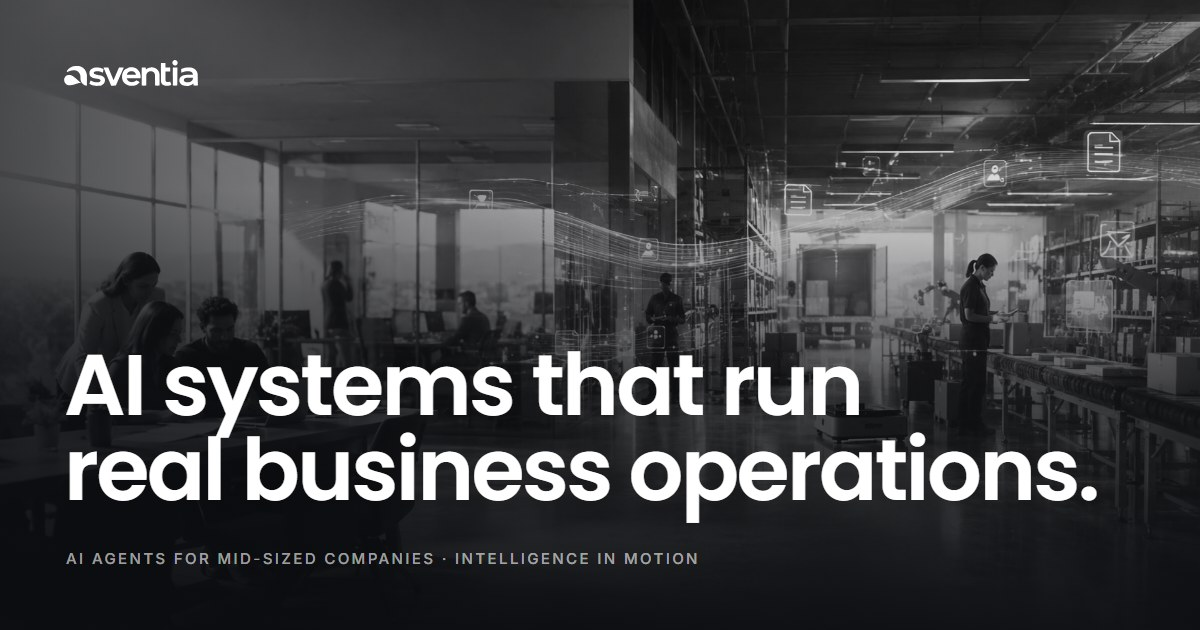
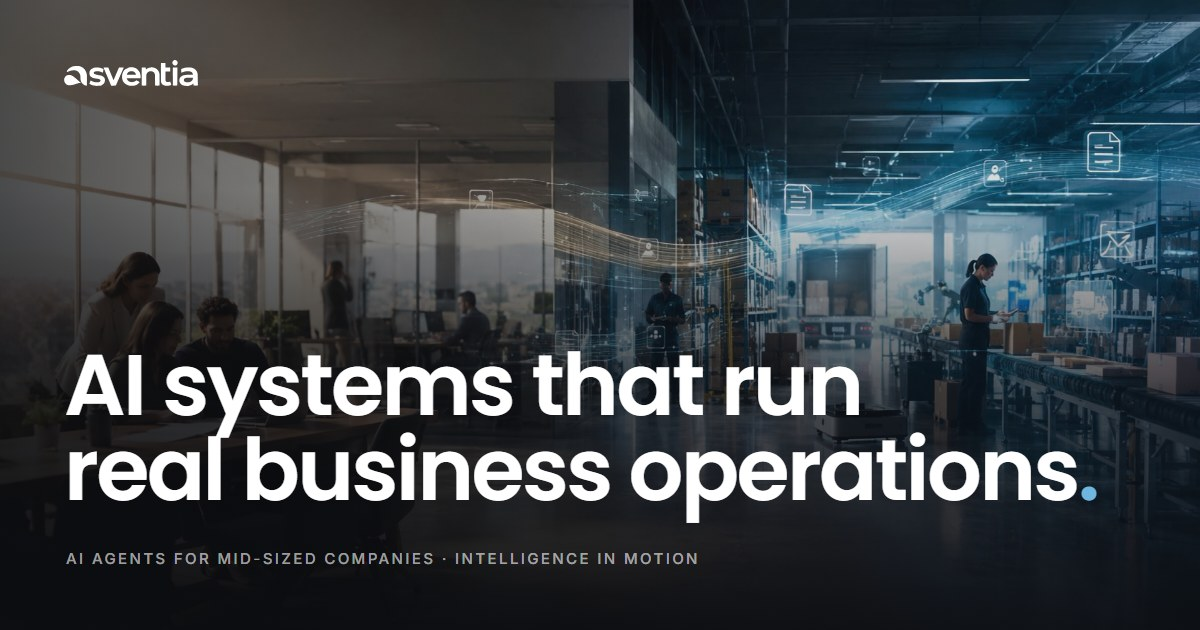
feat: more color

Changed region(s): [[0.6167, 0.0302, 1.0, 0.5127], [0.8942, 0.754, 0.925, 0.8143]]

diff --git a/src/app/globals.css b/src/app/globals.css
@@ -2,7 +2,8 @@
 @import "lenis/dist/lenis.css";
 
 /* ------------------------------------------------------------------
-   Asventia tokens. Paper and ink from the brand deck; black and white, no accent colour.
+   Asventia tokens. Paper and ink from the brand deck, plus one cool accent
+   taken from the hero footage's holographic lines. Used sparingly.
    ------------------------------------------------------------------ */
 @theme {
   --color-paper: #f4f3ef;
@@ -16,6 +17,9 @@
   --color-body: #454b55;
   --color-muted: #5f6570;
   --color-sand: #c3bdb1;
+  /* accent on ink (8:1) / accent-deep on paper (5:1); never orange */
+  --color-accent: #6fb6e0;
+  --color-accent-deep: #2a6a96;
 
   --text-hero: min(clamp(2.3rem, 0.75rem + 4.75vw, 6.6rem), 9.2svh);
   --text-hero--line-height: 1;
@@ -60,12 +64,12 @@
   }
 
   ::selection {
-    background: var(--color-ink);
+    background: var(--color-accent-deep);
     color: #fff;
   }
 
   :focus-visible {
-    outline: 2px solid currentColor;
+    outline: 2px solid var(--color-accent);
     outline-offset: 3px;
   }
 
@@ -146,11 +150,11 @@
   }
   .range::-webkit-slider-runnable-track {
     height: 2px;
-    background: linear-gradient(to right, #fff var(--fill), rgb(255 255 255 / 0.16) var(--fill));
+    background: linear-gradient(to right, var(--color-accent) var(--fill), rgb(255 255 255 / 0.16) var(--fill));
   }
   .range::-moz-range-track {
     height: 2px;
-    background: linear-gradient(to right, #fff var(--fill), rgb(255 255 255 / 0.16) var(--fill));
+    background: linear-gradient(to right, var(--color-accent) var(--fill), rgb(255 255 255 / 0.16) var(--fill));
   }
   .range::-webkit-slider-thumb {
     appearance: none;
@@ -169,7 +173,7 @@
     background: #fff;
   }
   .range:active::-webkit-slider-thumb {
-    background: var(--color-sand);
+    background: var(--color-accent);
   }
   .range:focus-visible {
     outline-offset: 6px;

diff --git a/src/components/agents/sim-tailored.tsx b/src/components/agents/sim-tailored.tsx
@@ -46,7 +46,7 @@ export function TailoredSim({ playing, instant, onDone }: SimProps) {
             <Appear key={p.name} show={at(S.rows + i)} y={6}>
               <div
                 className={`grid grid-cols-[minmax(0,1fr)_3.5rem_4.5rem] items-center gap-3 border-t border-white/8 px-2 py-2.5 transition-colors duration-500 sm:grid-cols-[minmax(0,1.3fr)_3.5rem_minmax(0,1fr)_4.5rem] ${
-                  picked ? "-mx-2 bg-white/10 px-4" : "-mx-2"
+                  picked ? "-mx-2 bg-accent/12 px-4" : "-mx-2"
                 }`}
               >
                 <span className={`truncate text-[0.84rem] ${picked ? "text-white" : "text-white/80"}`}>{p.name}</span>
@@ -54,7 +54,7 @@ export function TailoredSim({ playing, instant, onDone }: SimProps) {
                 <span className="hidden h-1.5 overflow-hidden bg-white/8 sm:block">
                   <span
                     className={`block h-full origin-left transition-transform duration-1000 ease-out-expo ${
-                      picked ? "bg-white" : "bg-white/35"
+                      picked ? "bg-accent" : "bg-white/55"
                     }`}
                     style={{ transform: `scaleX(${at(S.rows + i) ? p.hours / MAX : 0})`}}
                   />
@@ -78,7 +78,7 @@ export function TailoredSim({ playing, instant, onDone }: SimProps) {
         <Appear show={at(S.plan)} className="bg-white/6 p-4">
           <PanelLabel>Recommended first agent</PanelLabel>
           <p className="mt-1.5 flex items-center gap-2 text-[1rem] font-medium">
-            Order intake <ArrowRight className="size-4 text-white" /> pilot in 4 weeks
+            Order intake <ArrowRight className="size-4 text-accent" /> pilot in 4 weeks
           </p>
           <p className="mt-1 text-[0.8rem] leading-snug text-white/55">
             Target: ≥95% of orders read correctly, about 1,800 hours a year back to the sales team.

diff --git a/src/components/sections/rollout.tsx b/src/components/sections/rollout.tsx
@@ -81,13 +81,13 @@ export function Rollout() {
           <m.div
             aria-hidden
             style={{ scaleX: fill }}
-            className="absolute top-[0.44rem] left-0 hidden h-px w-full origin-left bg-ink md:block"
+            className="absolute top-[0.44rem] left-0 hidden h-px w-full origin-left bg-accent-deep md:block"
           />
           <div aria-hidden className="absolute top-0 bottom-0 left-[0.44rem] w-px bg-line-strong md:hidden" />
           <m.div
             aria-hidden
             style={{ scaleY: fill }}
-            className="absolute top-0 bottom-0 left-[0.44rem] w-px origin-top bg-ink md:hidden"
+            className="absolute top-0 bottom-0 left-[0.44rem] w-px origin-top bg-accent-deep md:hidden"
           />
 
           <ol className="relative grid gap-10 md:grid-cols-4 md:gap-6">
@@ -98,13 +98,13 @@ export function Rollout() {
                   <span
                     aria-hidden
                     className={`absolute top-0 left-0 grid size-[0.9rem] place-items-center transition-colors duration-500 ${
-                      on ? "bg-ink" : "bg-stone ring-1 ring-line-strong ring-inset"
+                      on ? "bg-accent-deep" : "bg-stone ring-1 ring-line-strong ring-inset"
                     }`}
                   >
                     <span className={`size-1.5 ${on ? "bg-white" : "bg-transparent"}`} />
                   </span>
                   <div className="md:pt-10">
-                    <p className={`label transition-colors duration-500 ${on ? "text-ink" : "text-muted"}`}>
+                    <p className={`label transition-colors duration-500 ${on ? "text-accent-deep" : "text-muted"}`}>
                       Phase {i + 1} · {p.when}
                     </p>
                     <h3 className="mt-3 font-display text-[1.25rem] leading-snug font-semibold tracking-[-0.012em] text-ink">

diff --git a/src/components/hero/hero.tsx b/src/components/hero/hero.tsx
@@ -69,7 +69,7 @@ export function Hero({ onSelectAgent }: { onSelectAgent: (id: AgentId) => void }
         {/* ---------------- footage ---------------- */}
         <m.div style={{ y: mediaY }} className="absolute inset-0">
           <m.div style={{ x: sx, y: sy }} className="absolute inset-0">
-            <div className="intro-settle absolute inset-0 origin-[60%_45%] grayscale">
+            <div className="intro-settle absolute inset-0 origin-[60%_45%]">
               <SceneMedia playing={running} />
             </div>
           </m.div>
@@ -105,7 +105,7 @@ export function Hero({ onSelectAgent }: { onSelectAgent: (id: AgentId) => void }
               </span>
               <span className="line-mask">
                 <span className="intro-rise inline-block" style={{ "--d": "0.18s" } as CSSProperties}>
-                  real business operations.
+                  real business operations<span className="text-accent">.</span>
                 </span>
               </span>
             </h1>
@@ -171,7 +171,7 @@ function IndexItem({
       {active && (
         <span
           aria-hidden
-          className="absolute inset-x-0 -top-px h-px origin-left bg-white"
+          className="absolute inset-x-0 -top-px h-px origin-left bg-accent"
           style={{
             animation: `marquee-progress ${CYCLE_MS}ms linear both`,
             animationPlayState: running ? "running" : "paused",
@@ -180,7 +180,7 @@ function IndexItem({
       )}
       <a href="#agents" onClick={onSelect} className="group block py-5 pr-6 xl:pr-10 [@media(max-height:820px)]:py-4">
         <span
-          className={`label transition-colors duration-500 ${active ? "text-white" : "text-white/50"}`}
+          className={`label transition-colors duration-500 ${active ? "text-accent" : "text-white/50"}`}
         >
           {index}
         </span>

diff --git a/src/components/agents/sim-invoice.tsx b/src/components/agents/sim-invoice.tsx
@@ -103,7 +103,7 @@ export function InvoiceSim({ playing, instant, onDone }: SimProps) {
           {/* scan beam */}
           {step === S.scan && (
             <div className="pointer-events-none absolute inset-0 [animation:scan_1.5s_var(--ease-in-out-quart)_both]">
-              <div className="h-px w-full bg-white shadow-[0_0_18px_4px_rgba(255,255,255,0.35)]" />
+              <div className="h-px w-full bg-accent shadow-[0_0_18px_4px_rgba(111,182,224,0.45)]" />
             </div>
           )}
         </div>
@@ -138,7 +138,7 @@ export function InvoiceSim({ playing, instant, onDone }: SimProps) {
           <div className="mt-2 space-y-1 tabular text-[0.72rem]">
             {JOURNAL.map((j) => (
               <div key={j.acct} className="grid grid-cols-[2.2rem_minmax(0,1fr)_4.2rem_4.2rem] gap-2">
-                <span className="font-medium text-white">{j.acct}</span>
+                <span className="text-accent">{j.acct}</span>
                 <span className="truncate text-white/70">{j.name}</span>
                 <span className="tabular text-right text-white/85">{j.dr}</span>
                 <span className="tabular text-right text-white/85">{j.cr}</span>
@@ -174,9 +174,9 @@ function Zone({
     <div
       className={`relative -m-1 p-1 transition-[box-shadow,background-color] duration-500 ${
         active
-          ? "bg-ink/5 shadow-[inset_0_0_0_1.5px_var(--color-ink)]"
+          ? "bg-accent-deep/8 shadow-[inset_0_0_0_1.5px_var(--color-accent-deep)]"
           : seen
-            ? "shadow-[inset_0_0_0_1px_rgba(21,22,26,0.25)]"
+            ? "shadow-[inset_0_0_0_1px_rgba(42,106,150,0.3)]"
             : ""
       } ${className}`}
     >

diff --git a/src/components/agents/agents.tsx b/src/components/agents/agents.tsx
@@ -72,7 +72,7 @@ export function Agents({ request }: { request: AgentRequest }) {
     >
       <div className="flex items-center justify-between border-b border-white/10 px-5 py-3">
         <div className="flex items-center gap-2.5">
-          <span className="grid size-6 place-items-center bg-white">
+          <span className="grid size-6 place-items-center bg-accent">
             <Mark className="h-2.5 w-auto text-ink" />
           </span>
           <span className="label text-white/70">{agent.name}</span>
@@ -126,7 +126,7 @@ export function Agents({ request }: { request: AgentRequest }) {
                     <span
                       key={run}
                       aria-hidden
-                      className="absolute inset-x-0 -top-px h-px origin-left bg-ink"
+                      className="absolute inset-x-0 -top-px h-px origin-left bg-accent-deep"
                       style={{
                         animation: `marquee-progress ${duration}ms linear both`,
                         animationPlayState: playing ? "running" : "paused",
@@ -142,7 +142,7 @@ export function Agents({ request }: { request: AgentRequest }) {
                   >
                     <span
                       className={`pt-1.5 tabular text-[0.78rem] transition-colors duration-300 ${
-                        selected ? "text-ink" : "text-muted"
+                        selected ? "text-accent-deep" : "text-muted"
                       }`}
                     >
                       {a.index}

diff --git a/src/components/agents/sim-reception.tsx b/src/components/agents/sim-reception.tsx
@@ -82,7 +82,7 @@ export function ReceptionSim({ playing, instant, onDone }: SimProps) {
               <span key={i} className="flex h-full flex-1" style={{ transform: `scaleY(${b.hi})`}}>
                 <span
                   className={`h-full w-full origin-center transition-colors duration-300 ${
-                    speaker === "agent" ? "bg-white" : speaker === "caller" ? "bg-white/45" : "bg-white/15"
+                    speaker === "agent" ? "bg-accent" : speaker === "caller" ? "bg-white/80" : "bg-white/20"
                   }`}
                   style={
                     {
@@ -159,7 +159,7 @@ function Line({ show, who, children }: { show: boolean; who: "agent" | "caller";
     <Appear show={show} y={5} className="flex gap-2.5">
       <span className="mt-0.5 grid size-4 shrink-0 place-items-center">
         {who === "agent" ? (
-          <Mark className="h-2.5 w-auto text-white" />
+          <Mark className="h-2.5 w-auto text-accent" />
         ) : (
           <span className="size-1.5 bg-white/50" />
         )}

diff --git a/src/components/agents/sim-sales.tsx b/src/components/agents/sim-sales.tsx
@@ -77,7 +77,7 @@ export function SalesSim({ playing, instant, onDone }: SimProps) {
             </span>
           </Appear>
           <Appear show={step === S.typing3} className="self-end">
-            <span className="inline-flex bg-white/80 px-3.5 py-3 text-ink/80">
+            <span className="inline-flex bg-accent/80 px-3.5 py-3 text-ink/80">
               <TypingDots />
             </span>
           </Appear>
@@ -174,7 +174,7 @@ function Bubble({ side, time, children }: { side: "in" | "out"; time: string; ch
   return (
     <div
       className={`px-3.5 py-2.5 text-[0.84rem] leading-snug ${
-        out ? "bg-white text-ink" : "bg-white/8 text-white/90"
+        out ? "bg-accent text-ink" : "bg-white/8 text-white/90"
       }`}
     >
       {out && (

diff --git a/src/components/ui/email-capture.tsx b/src/components/ui/email-capture.tsx
@@ -75,7 +75,7 @@ export function EmailCapture({ source, note, cta = "Book a demo", className = ""
           {/* Focus line draws across the bottom edge */}
           <span
             aria-hidden
-            className="pointer-events-none absolute inset-x-0 bottom-0 h-0.5 origin-left scale-x-0 bg-white transition-transform duration-500 ease-out-expo group-focus-within/field:scale-x-100"
+            className="pointer-events-none absolute inset-x-0 bottom-0 h-0.5 origin-left scale-x-0 bg-accent transition-transform duration-500 ease-out-expo group-focus-within/field:scale-x-100"
           />
         </div>
         <button

diff --git a/src/components/site-footer.tsx b/src/components/site-footer.tsx
@@ -46,7 +46,7 @@ export function SiteFooter() {
               </li>
               <li className="text-white/50">{site.location}</li>
               <li className="pt-2">
-                <a href={bookingHref} className="inline-flex items-center gap-1.5 text-white transition-colors hover:text-white/70">
+                <a href={bookingHref} className="inline-flex items-center gap-1.5 text-accent transition-colors hover:text-white">
                   Book a 30-minute call <ArrowUpRight className="size-3.5" />
                 </a>
               </li>

diff --git a/src/components/sections/the-math.tsx b/src/components/sections/the-math.tsx
@@ -125,7 +125,7 @@ export function TheMath() {
                 </div>
                 <div className="py-3.5">
                   <dt className="text-[0.82rem] text-white/60">Full-time people</dt>
-                  <dd className="tabular mt-1 font-display text-[1.4rem] font-semibold text-white">
+                  <dd className="tabular mt-1 font-display text-[1.4rem] font-semibold text-accent">
                     <Counter value={people} format={(v) => fmt1.format(v)} />
                   </dd>
                 </div>

diff --git a/src/components/agents/sim-kit.tsx b/src/components/agents/sim-kit.tsx
@@ -95,7 +95,7 @@ export function Chip({ children, tone = "neutral" }: { children: ReactNode; tone
   const tones = {
     neutral: "bg-white/8 text-white/70",
     strong: "bg-white text-ink",
-    outline: "text-white ring-1 ring-white/40 ring-inset",
+    outline: "bg-accent/15 text-accent",
   };
   return (
     <span className={`label inline-flex items-center gap-1.5 px-2 py-1 ${tones[tone]}`}>
